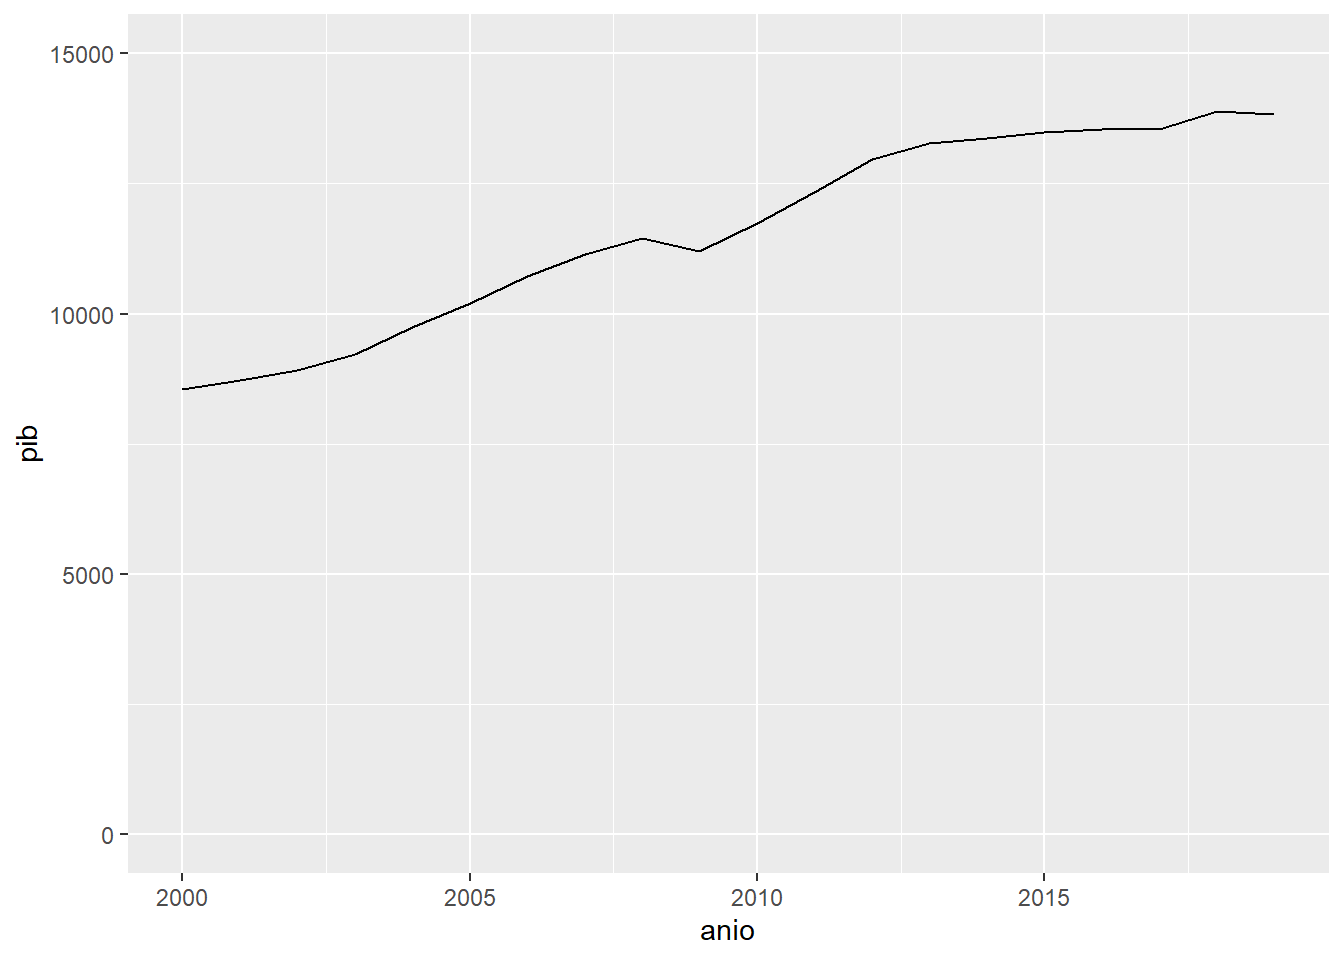
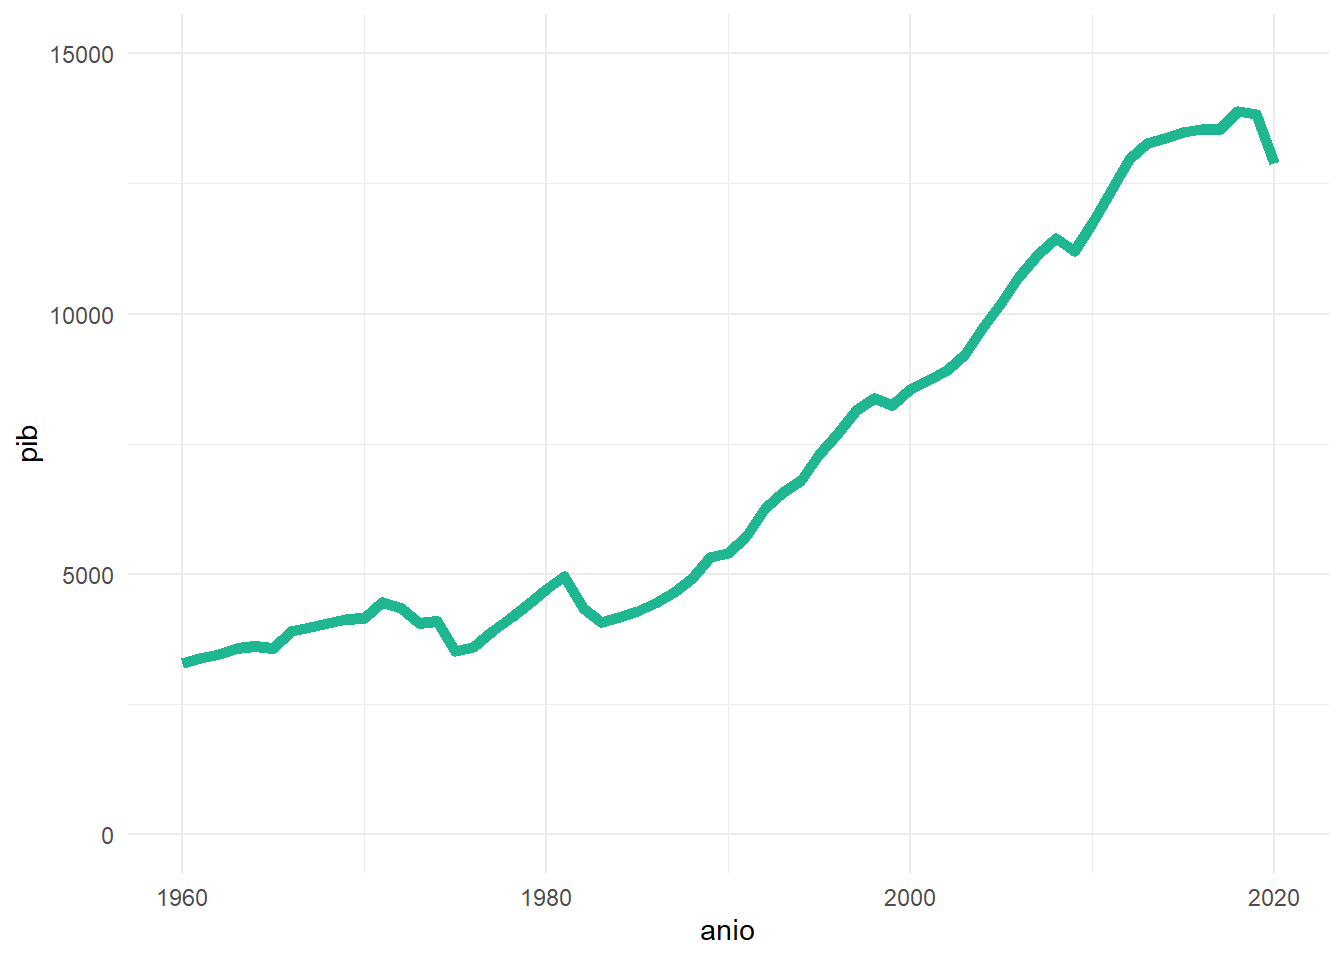
actualizacion de datos

diff --git a/productos/primer-documento.html b/productos/primer-documento.html
@@ -131,13 +131,14 @@ code span.wa { color: #60a0b0; font-weight: bold; font-style: italic; } /* Warni
 <span id="cb1-2"><a href="#cb1-2" aria-hidden="true" tabindex="-1"></a><span class="fu">library</span>(dplyr)</span>
 <span id="cb1-3"><a href="#cb1-3" aria-hidden="true" tabindex="-1"></a><span class="fu">library</span>(ggplot2)</span>
 <span id="cb1-4"><a href="#cb1-4" aria-hidden="true" tabindex="-1"></a></span>
-<span id="cb1-5"><a href="#cb1-5" aria-hidden="true" tabindex="-1"></a>desarrollo <span class="ot">&lt;-</span> <span class="fu">read_csv</span>(<span class="st">"https://raw.githubusercontent.com/rivaquiroga/datos-de-ejemplo/main/cl_2000-2019.csv"</span>)</span></code><button title="Copy to Clipboard" class="code-copy-button"><i class="bi"></i></button></pre></div>
+<span id="cb1-5"><a href="#cb1-5" aria-hidden="true" tabindex="-1"></a>desarrollo <span class="ot">&lt;-</span> <span class="fu">read_csv</span>(<span class="st">"https://raw.githubusercontent.com/rivaquiroga/datos-de-ejemplo/main/cl_1960-2020.csv"</span>)</span></code><button title="Copy to Clipboard" class="code-copy-button"><i class="bi"></i></button></pre></div>
 </div>
-<p>Estos son datos sobre Chile para las variables población, pib per cápita y esperanza de vida entre los años 2000 y 2019.</p>
+<p>Estos son datos sobre Chile para las variables población, pib per cápita y esperanza de vida entre los años 1960 y 2020.</p>
 <div class="cell">
 <div class="sourceCode cell-code" id="cb2"><pre class="sourceCode r code-with-copy"><code class="sourceCode r"><span id="cb2-1"><a href="#cb2-1" aria-hidden="true" tabindex="-1"></a><span class="fu">ggplot</span>(desarrollo, <span class="fu">aes</span>(<span class="at">x =</span> anio, <span class="at">y =</span> pib)) <span class="sc">+</span></span>
-<span id="cb2-2"><a href="#cb2-2" aria-hidden="true" tabindex="-1"></a>  <span class="fu">geom_line</span>() <span class="sc">+</span></span>
-<span id="cb2-3"><a href="#cb2-3" aria-hidden="true" tabindex="-1"></a>  <span class="fu">scale_y_continuous</span>(<span class="at">limits =</span> <span class="fu">c</span>(<span class="dv">0</span>, <span class="dv">15000</span>))</span></code><button title="Copy to Clipboard" class="code-copy-button"><i class="bi"></i></button></pre></div>
+<span id="cb2-2"><a href="#cb2-2" aria-hidden="true" tabindex="-1"></a>  <span class="fu">geom_line</span>(<span class="at">size =</span> <span class="dv">2</span>, <span class="at">color =</span> <span class="st">"#1fb791"</span>) <span class="sc">+</span></span>
+<span id="cb2-3"><a href="#cb2-3" aria-hidden="true" tabindex="-1"></a>  <span class="fu">scale_y_continuous</span>(<span class="at">limits =</span> <span class="fu">c</span>(<span class="dv">0</span>, <span class="dv">15000</span>)) <span class="sc">+</span></span>
+<span id="cb2-4"><a href="#cb2-4" aria-hidden="true" tabindex="-1"></a>  <span class="fu">theme_minimal</span>()</span></code><button title="Copy to Clipboard" class="code-copy-button"><i class="bi"></i></button></pre></div>
 <div class="cell-output-display">
 <p><img src="primer-documento_files/figure-html/unnamed-chunk-2-1.png" class="img-fluid" width="672"></p>
 </div>
@@ -145,7 +146,7 @@ code span.wa { color: #60a0b0; font-weight: bold; font-style: italic; } /* Warni
 <p>Los datos del último año son los siguientes:</p>
 <div class="cell">
 <div class="sourceCode cell-code" id="cb3"><pre class="sourceCode r code-with-copy"><code class="sourceCode r"><span id="cb3-1"><a href="#cb3-1" aria-hidden="true" tabindex="-1"></a>desarrollo <span class="sc">|&gt;</span> </span>
-<span id="cb3-2"><a href="#cb3-2" aria-hidden="true" tabindex="-1"></a>  <span class="fu">filter</span>(anio <span class="sc">==</span> <span class="dv">2019</span>) <span class="sc">|&gt;</span> </span>
+<span id="cb3-2"><a href="#cb3-2" aria-hidden="true" tabindex="-1"></a>  <span class="fu">filter</span>(anio <span class="sc">==</span> <span class="fu">max</span>(desarrollo<span class="sc">$</span>anio)) <span class="sc">|&gt;</span> </span>
 <span id="cb3-3"><a href="#cb3-3" aria-hidden="true" tabindex="-1"></a>  <span class="fu">select</span>(<span class="st">"esperanza de vida"</span> <span class="ot">=</span> esperanza_vida,pib,<span class="st">"población"</span> <span class="ot">=</span> poblacion) <span class="sc">|&gt;</span> </span>
 <span id="cb3-4"><a href="#cb3-4" aria-hidden="true" tabindex="-1"></a>  knitr<span class="sc">::</span><span class="fu">kable</span>()</span></code><button title="Copy to Clipboard" class="code-copy-button"><i class="bi"></i></button></pre></div>
 <div class="cell-output-display">
@@ -159,9 +160,9 @@ code span.wa { color: #60a0b0; font-weight: bold; font-style: italic; } /* Warni
 </thead>
 <tbody>
 <tr class="odd">
-<td style="text-align: right;">79.1</td>
-<td style="text-align: right;">13829</td>
-<td style="text-align: right;">19100000</td>
+<td style="text-align: right;">80.5</td>
+<td style="text-align: right;">12890</td>
+<td style="text-align: right;">19200000</td>
 </tr>
 </tbody>
 </table>
